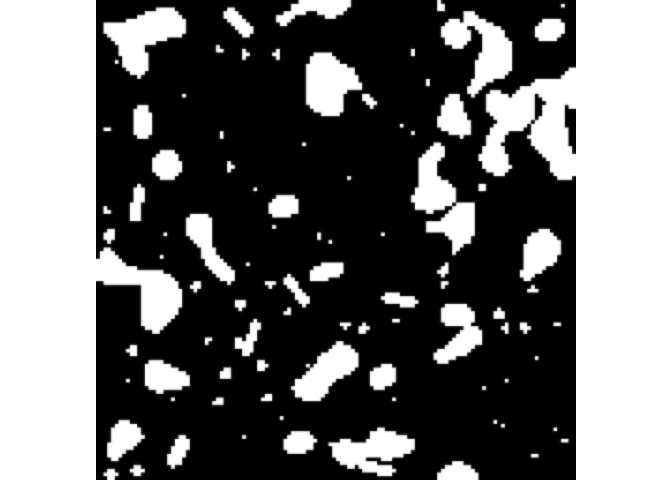
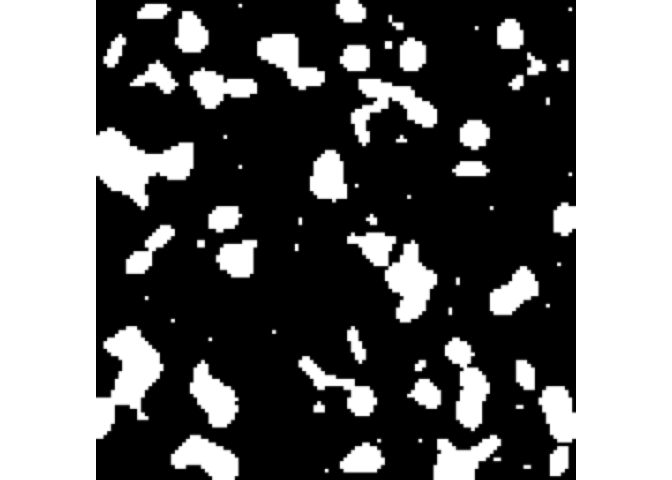
update write label metadata

diff --git a/inst/scripts/generate_examples.py b/inst/scripts/generate_examples.py
@@ -30,6 +30,7 @@ rng = np.random.default_rng(0)
 data = rng.poisson(lam=10, size=(size_c, size_xy, size_xy)).astype(np.uint8)
 
 # generate labels
+# TODO: for now we only generate a binary mask
 blobs = binary_blobs(length=size_xy, volume_fraction=0.1, n_dim=2).astype('int8')
 blobs2 = binary_blobs(length=size_xy, volume_fraction=0.1, n_dim=2).astype('int8')
 blobs += 2 * blobs2

diff --git a/README.md b/README.md
@@ -138,3 +138,35 @@ ome_img <- ome_write(img,
                      scalefactors = c(2,2,3),
                      storage_options = list(chunk_dim = c(64,64,1)))
 ```
+
+## Write label
+
+OME-ZARR label pyramids can be generated the same way. We first create
+our own label data using EBImage first.
+
+``` r
+# read image
+library(EBImage)
+
+# read the first frame of image
+nuc <- readImage(system.file("images", "nuclei.tif", package="EBImage"))
+nuc <- getFrames(nuc)[[1]]
+
+# threshold using otsu's method
+nuc_th = nuc > otsu(nuc)
+```
+
+We can now write the image pyramid. Arguments are similar for labels.
+
+``` r
+# write label, version 0.4
+ome_nuc_th <- ome_write(nuc_th,
+                        path = tempfile(fileext = ".ome.zarr"),
+                        version = "0.4",
+                        scalefactors = c(2,2,3),
+                        storage_options = list(chunk_dim = c(64,64)), 
+                        type = "label")
+plot(ome_nuc_th, 3)
+```
+
+<img src="man/figures/README-write_label-1.png" style="width:100.0%" />